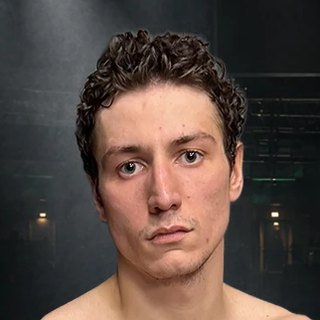
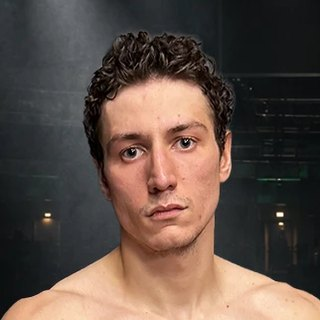
Acuna now faces Drazhan, Molai vs Nash is off
Kyrylo Drazhan (Recon MMA, code DRAZHAN) replaces Nabeel Ghadfa opposite
Andrew Acuna, amateur kickboxing at 155. Molai vs Nash comes off the card.

diff --git a/events.html b/events.html
@@ -210,7 +210,7 @@
           </div>
         </div>
       </article>
-      <article class="bout" data-reveal aria-label="Andrew Acuna versus Nabeel Ghadfa">
+      <article class="bout" data-reveal aria-label="Andrew Acuna versus Kyrylo Drazhan">
         <header class="bout-head">
           <p class="bout-name">Amateur kickboxing</p>
           <p class="meta">155 lbs</p>
@@ -224,10 +224,10 @@
           </div>
           <span class="vs" aria-hidden="true">VS</span>
           <div class="corner">
-            <img src="assets/img/fighters/nabeel-ghadfa.jpg" alt="Nabeel Ghadfa" width="320" height="320" loading="lazy">
-            <h3 class="fighter">Nabeel Ghadfa</h3>
+            <img src="assets/img/fighters/kyrylo-drazhan.jpg" alt="Kyrylo Drazhan" width="320" height="320" loading="lazy">
+            <h3 class="fighter">Kyrylo Drazhan</h3>
             <p class="gym">Recon MMA</p>
-            <p class="code">Code <b>GHADFA</b></p>
+            <p class="code">Code <b>DRAZHAN</b></p>
           </div>
         </div>
       </article>
@@ -291,27 +291,6 @@
             <h3 class="fighter">Jean St. Felix</h3>
             <p class="gym">Song Khao Muay Thai</p>
             <p class="code">Code <b>ST.FELIX</b></p>
-          </div>
-        </div>
-      </article>
-      <article class="bout" data-reveal aria-label="Moeketsi Molai versus Connor Nash">
-        <header class="bout-head">
-          <p class="bout-name">Amateur kickboxing</p>
-          <p class="meta">135 lbs</p>
-        </header>
-        <div class="bout-body">
-          <div class="corner">
-            <img src="assets/img/fighters/moeketsi-molai.jpg" alt="Moeketsi Molai" width="320" height="320" loading="lazy">
-            <h3 class="fighter">Moeketsi Molai</h3>
-            <p class="gym">KTA Nashua</p>
-            <p class="code">Code <b>MOLAI</b></p>
-          </div>
-          <span class="vs" aria-hidden="true">VS</span>
-          <div class="corner">
-            <img src="assets/img/fighters/connor-nash.jpg" alt="Connor Nash" width="320" height="320" loading="lazy">
-            <h3 class="fighter">Connor Nash</h3>
-            <p class="gym">Black Wolf Martial Arts</p>
-            <p class="code">Code <b>NASH</b></p>
           </div>
         </div>
       </article>

diff --git a/index.html b/index.html
@@ -299,7 +299,7 @@
           </div>
         </div>
       </article>
-      <article class="bout" data-reveal aria-label="Andrew Acuna versus Nabeel Ghadfa">
+      <article class="bout" data-reveal aria-label="Andrew Acuna versus Kyrylo Drazhan">
         <header class="bout-head">
           <p class="bout-name">Amateur kickboxing</p>
           <p class="meta">155 lbs</p>
@@ -313,10 +313,10 @@
           </div>
           <span class="vs" aria-hidden="true">VS</span>
           <div class="corner">
-            <img src="assets/img/fighters/nabeel-ghadfa.jpg" alt="Nabeel Ghadfa" width="320" height="320" loading="lazy">
-            <h3 class="fighter">Nabeel Ghadfa</h3>
+            <img src="assets/img/fighters/kyrylo-drazhan.jpg" alt="Kyrylo Drazhan" width="320" height="320" loading="lazy">
+            <h3 class="fighter">Kyrylo Drazhan</h3>
             <p class="gym">Recon MMA</p>
-            <p class="code">Code <b>GHADFA</b></p>
+            <p class="code">Code <b>DRAZHAN</b></p>
           </div>
         </div>
       </article>
@@ -380,27 +380,6 @@
             <h3 class="fighter">Jean St. Felix</h3>
             <p class="gym">Song Khao Muay Thai</p>
             <p class="code">Code <b>ST.FELIX</b></p>
-          </div>
-        </div>
-      </article>
-      <article class="bout" data-reveal aria-label="Moeketsi Molai versus Connor Nash">
-        <header class="bout-head">
-          <p class="bout-name">Amateur kickboxing</p>
-          <p class="meta">135 lbs</p>
-        </header>
-        <div class="bout-body">
-          <div class="corner">
-            <img src="assets/img/fighters/moeketsi-molai.jpg" alt="Moeketsi Molai" width="320" height="320" loading="lazy">
-            <h3 class="fighter">Moeketsi Molai</h3>
-            <p class="gym">KTA Nashua</p>
-            <p class="code">Code <b>MOLAI</b></p>
-          </div>
-          <span class="vs" aria-hidden="true">VS</span>
-          <div class="corner">
-            <img src="assets/img/fighters/connor-nash.jpg" alt="Connor Nash" width="320" height="320" loading="lazy">
-            <h3 class="fighter">Connor Nash</h3>
-            <p class="gym">Black Wolf Martial Arts</p>
-            <p class="code">Code <b>NASH</b></p>
           </div>
         </div>
       </article>

diff --git a/src/partials/fight-card.html b/src/partials/fight-card.html
@@ -100,7 +100,7 @@
           </div>
         </div>
       </article>
-      <article class="bout" data-reveal aria-label="Andrew Acuna versus Nabeel Ghadfa">
+      <article class="bout" data-reveal aria-label="Andrew Acuna versus Kyrylo Drazhan">
         <header class="bout-head">
           <p class="bout-name">Amateur kickboxing</p>
           <p class="meta">155 lbs</p>
@@ -114,10 +114,10 @@
           </div>
           <span class="vs" aria-hidden="true">VS</span>
           <div class="corner">
-            <img src="assets/img/fighters/nabeel-ghadfa.jpg" alt="Nabeel Ghadfa" width="320" height="320" loading="lazy">
-            <h3 class="fighter">Nabeel Ghadfa</h3>
+            <img src="assets/img/fighters/kyrylo-drazhan.jpg" alt="Kyrylo Drazhan" width="320" height="320" loading="lazy">
+            <h3 class="fighter">Kyrylo Drazhan</h3>
             <p class="gym">Recon MMA</p>
-            <p class="code">Code <b>GHADFA</b></p>
+            <p class="code">Code <b>DRAZHAN</b></p>
           </div>
         </div>
       </article>
@@ -181,27 +181,6 @@
             <h3 class="fighter">Jean St. Felix</h3>
             <p class="gym">Song Khao Muay Thai</p>
             <p class="code">Code <b>ST.FELIX</b></p>
-          </div>
-        </div>
-      </article>
-      <article class="bout" data-reveal aria-label="Moeketsi Molai versus Connor Nash">
-        <header class="bout-head">
-          <p class="bout-name">Amateur kickboxing</p>
-          <p class="meta">135 lbs</p>
-        </header>
-        <div class="bout-body">
-          <div class="corner">
-            <img src="assets/img/fighters/moeketsi-molai.jpg" alt="Moeketsi Molai" width="320" height="320" loading="lazy">
-            <h3 class="fighter">Moeketsi Molai</h3>
-            <p class="gym">KTA Nashua</p>
-            <p class="code">Code <b>MOLAI</b></p>
-          </div>
-          <span class="vs" aria-hidden="true">VS</span>
-          <div class="corner">
-            <img src="assets/img/fighters/connor-nash.jpg" alt="Connor Nash" width="320" height="320" loading="lazy">
-            <h3 class="fighter">Connor Nash</h3>
-            <p class="gym">Black Wolf Martial Arts</p>
-            <p class="code">Code <b>NASH</b></p>
           </div>
         </div>
       </article>

diff --git a/tools/make-fight-card.py b/tools/make-fight-card.py
@@ -33,7 +33,7 @@ BOUTS = [
      ("mike-fagan", "Mike Fagan", "Recon MMA", "FAGEN")),
     (None, "Amateur kickboxing", "155 lbs",
      ("andrew-acuna", "Andrew Acuna", "Rajasi", "ACUNA"),
-     ("nabeel-ghadfa", "Nabeel Ghadfa", "Recon MMA", "GHADFA")),
+     ("kyrylo-drazhan", "Kyrylo Drazhan", "Recon MMA", "DRAZHAN")),
     (None, "Amateur kickboxing", "145 lbs",
      ("jeff-cetoute", "Jeff Cetoute", "Rajasi", "CETOUTE"),
      ("tom-duffy", "Tom Duffy", "F.A.A", "DUFFY")),
@@ -44,9 +44,6 @@ BOUTS = [
     (None, "Amateur kickboxing", "165 lbs",
      ("josh-kelly", "Josh Kelly", "KTA Nashua", "KELLY"),
      ("jean-st-felix", "Jean St. Felix", "Song Khao Muay Thai", "ST.FELIX")),
-    (None, "Amateur kickboxing", "135 lbs",
-     ("moeketsi-molai", "Moeketsi Molai", "KTA Nashua", "MOLAI"),
-     ("connor-nash", "Connor Nash", "Black Wolf Martial Arts", "NASH")),
     # Grappling opens the night, so it sits at the foot of the card.
     (None, "No-gi grappling", "200 lbs",
      ("shayne-mackey", "Shayne Mackey", "KTA Nashua", "MACKEY"),

diff --git a/tools/make-fighter-headshots.py b/tools/make-fighter-headshots.py
@@ -31,7 +31,7 @@ CARD = {
     "nfp1-silva-medina.webp":     [("jeff-silva", 290), ("john-medina", 790)],
     "nfp1-mackey-burbach.webp":   [("shayne-mackey", 303), ("blane-burbach", 802)],
     "nfp1-johnson-fagan.webp":    [("james-johnson", 310), ("mike-fagan", 794)],
-    "nfp1-acuna-ghadfa.webp":     [("andrew-acuna", 310), ("nabeel-ghadfa", 790)],
+    "nfp1-acuna-drazhan.webp":    [("andrew-acuna", 305), ("kyrylo-drazhan", 795)],
     "nfp1-cetoute-duffy.webp":    [("jeff-cetoute", 318), ("tom-duffy", 796)],
     "nfp1-colon-kim.webp":        [("nate-colon", 316), ("armani-kim", 792)],
     "nfp1-kelly-st-felix.webp":   [("josh-kelly", 300), ("jean-st-felix", 786)],
